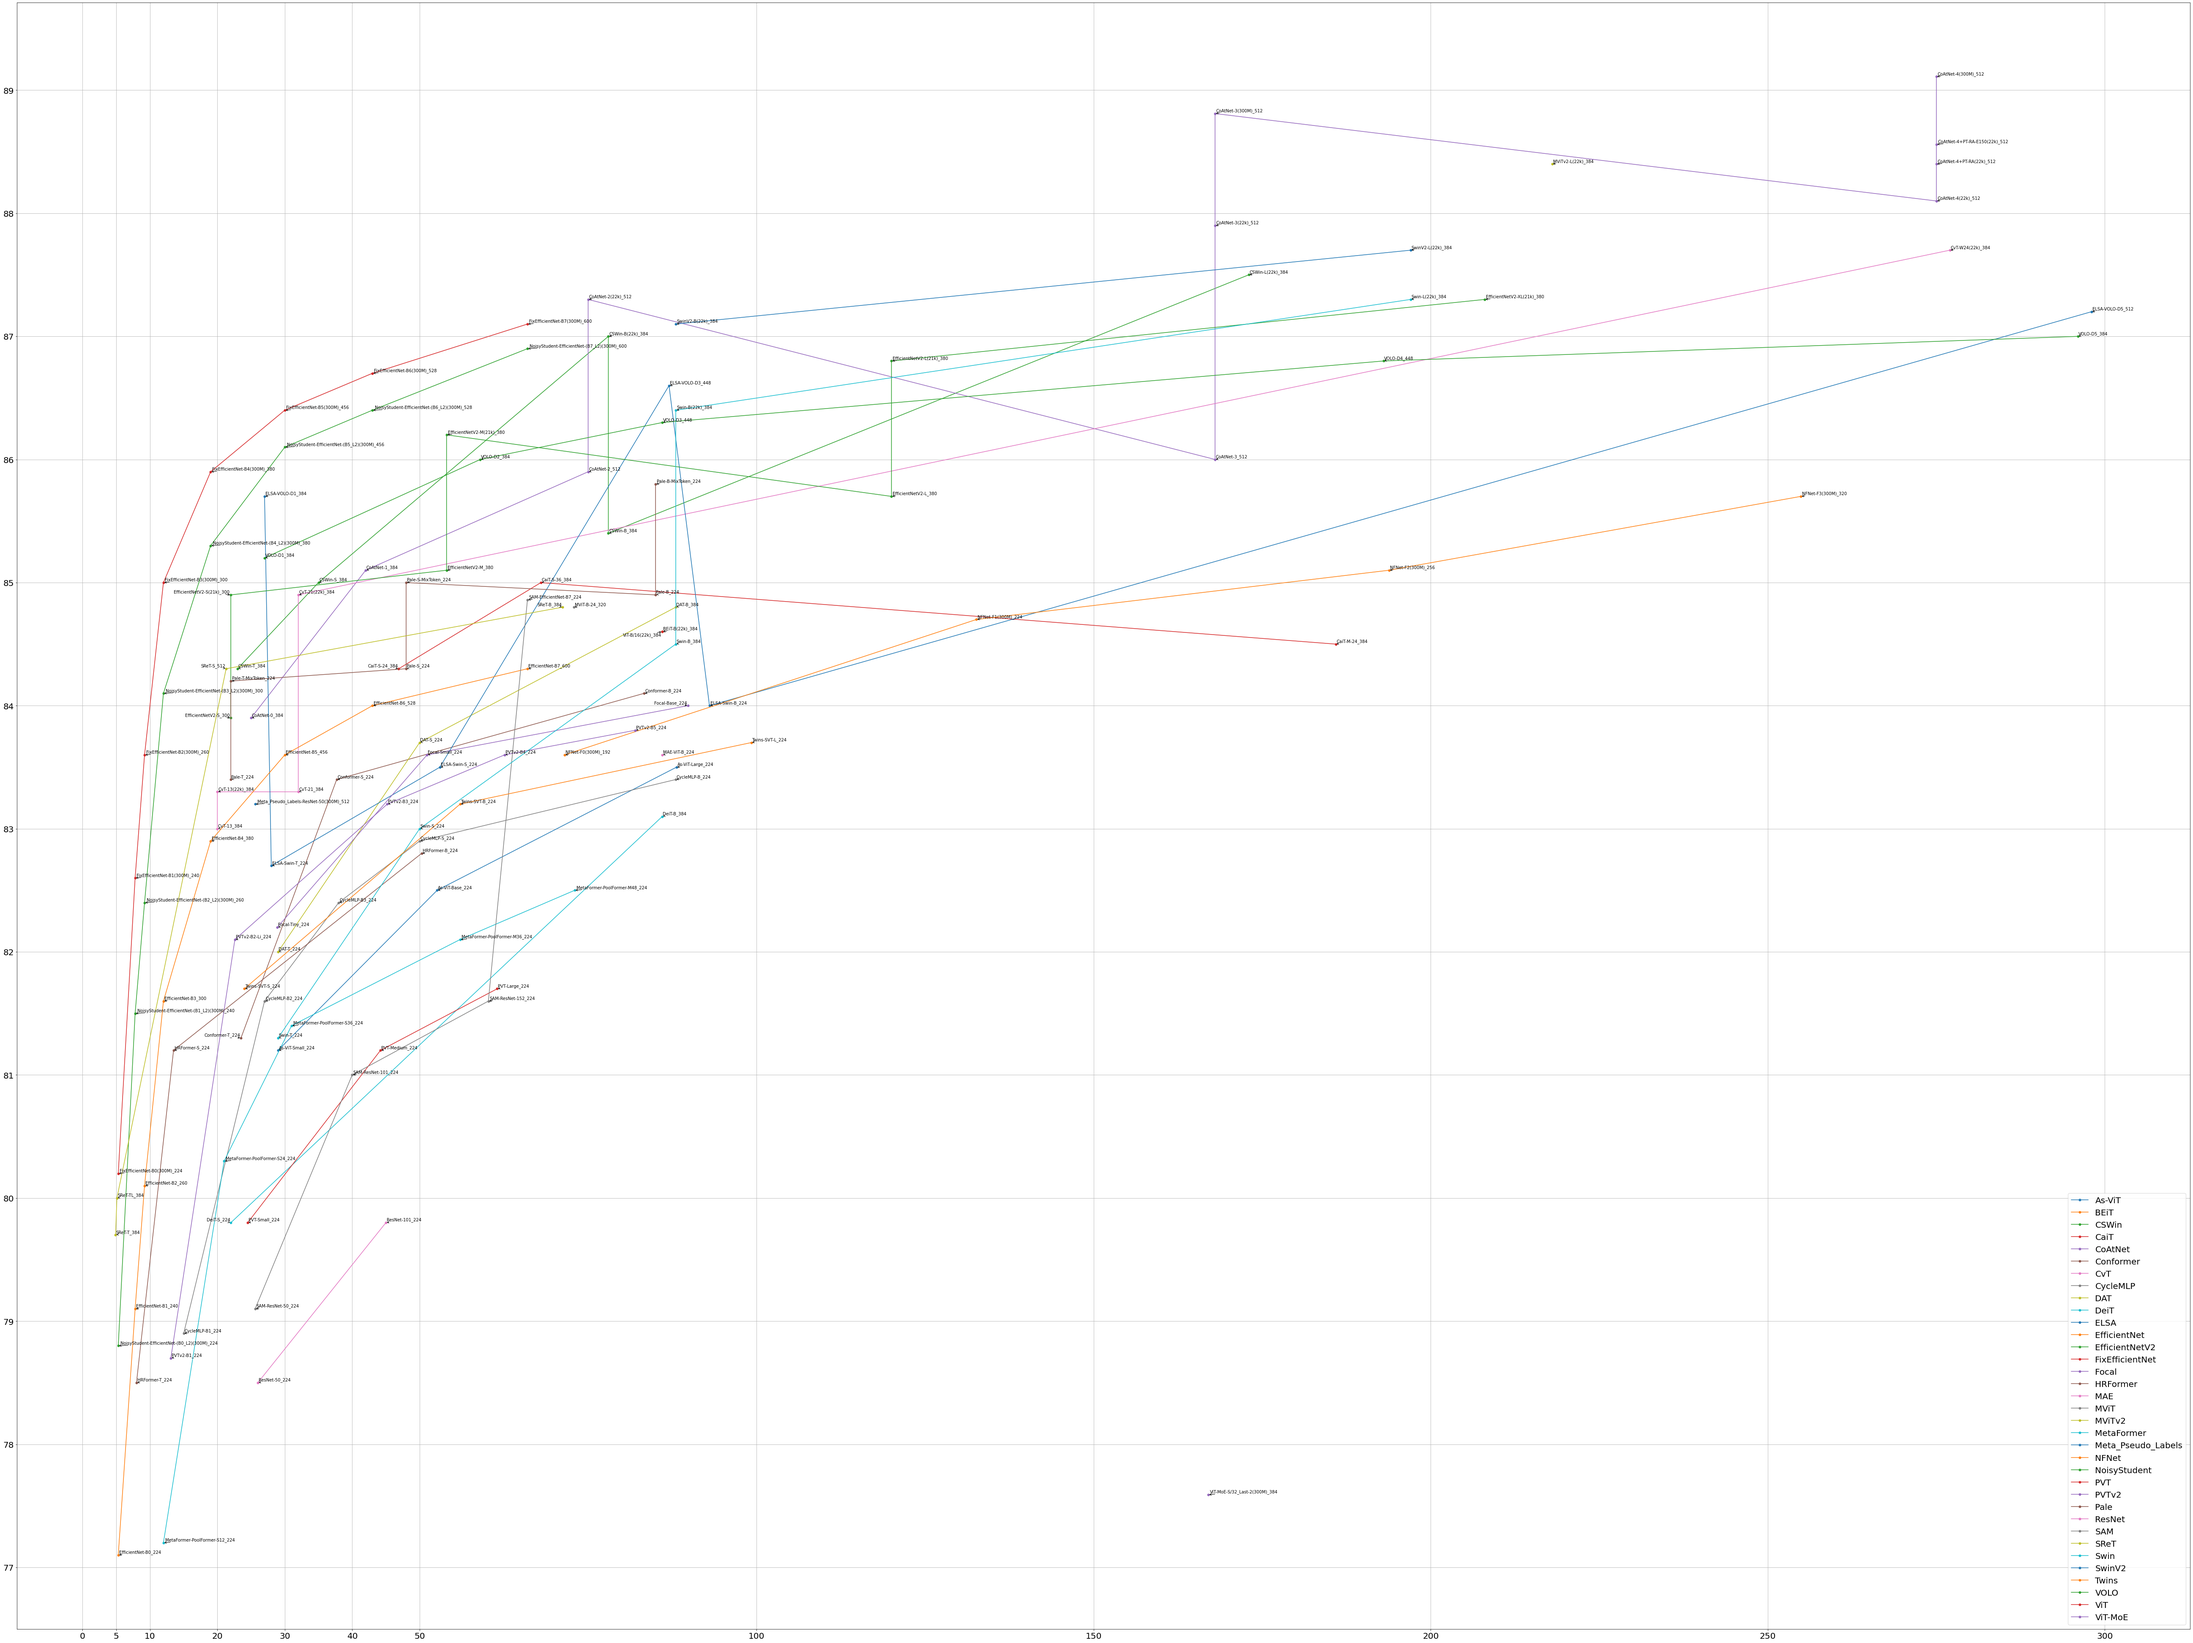
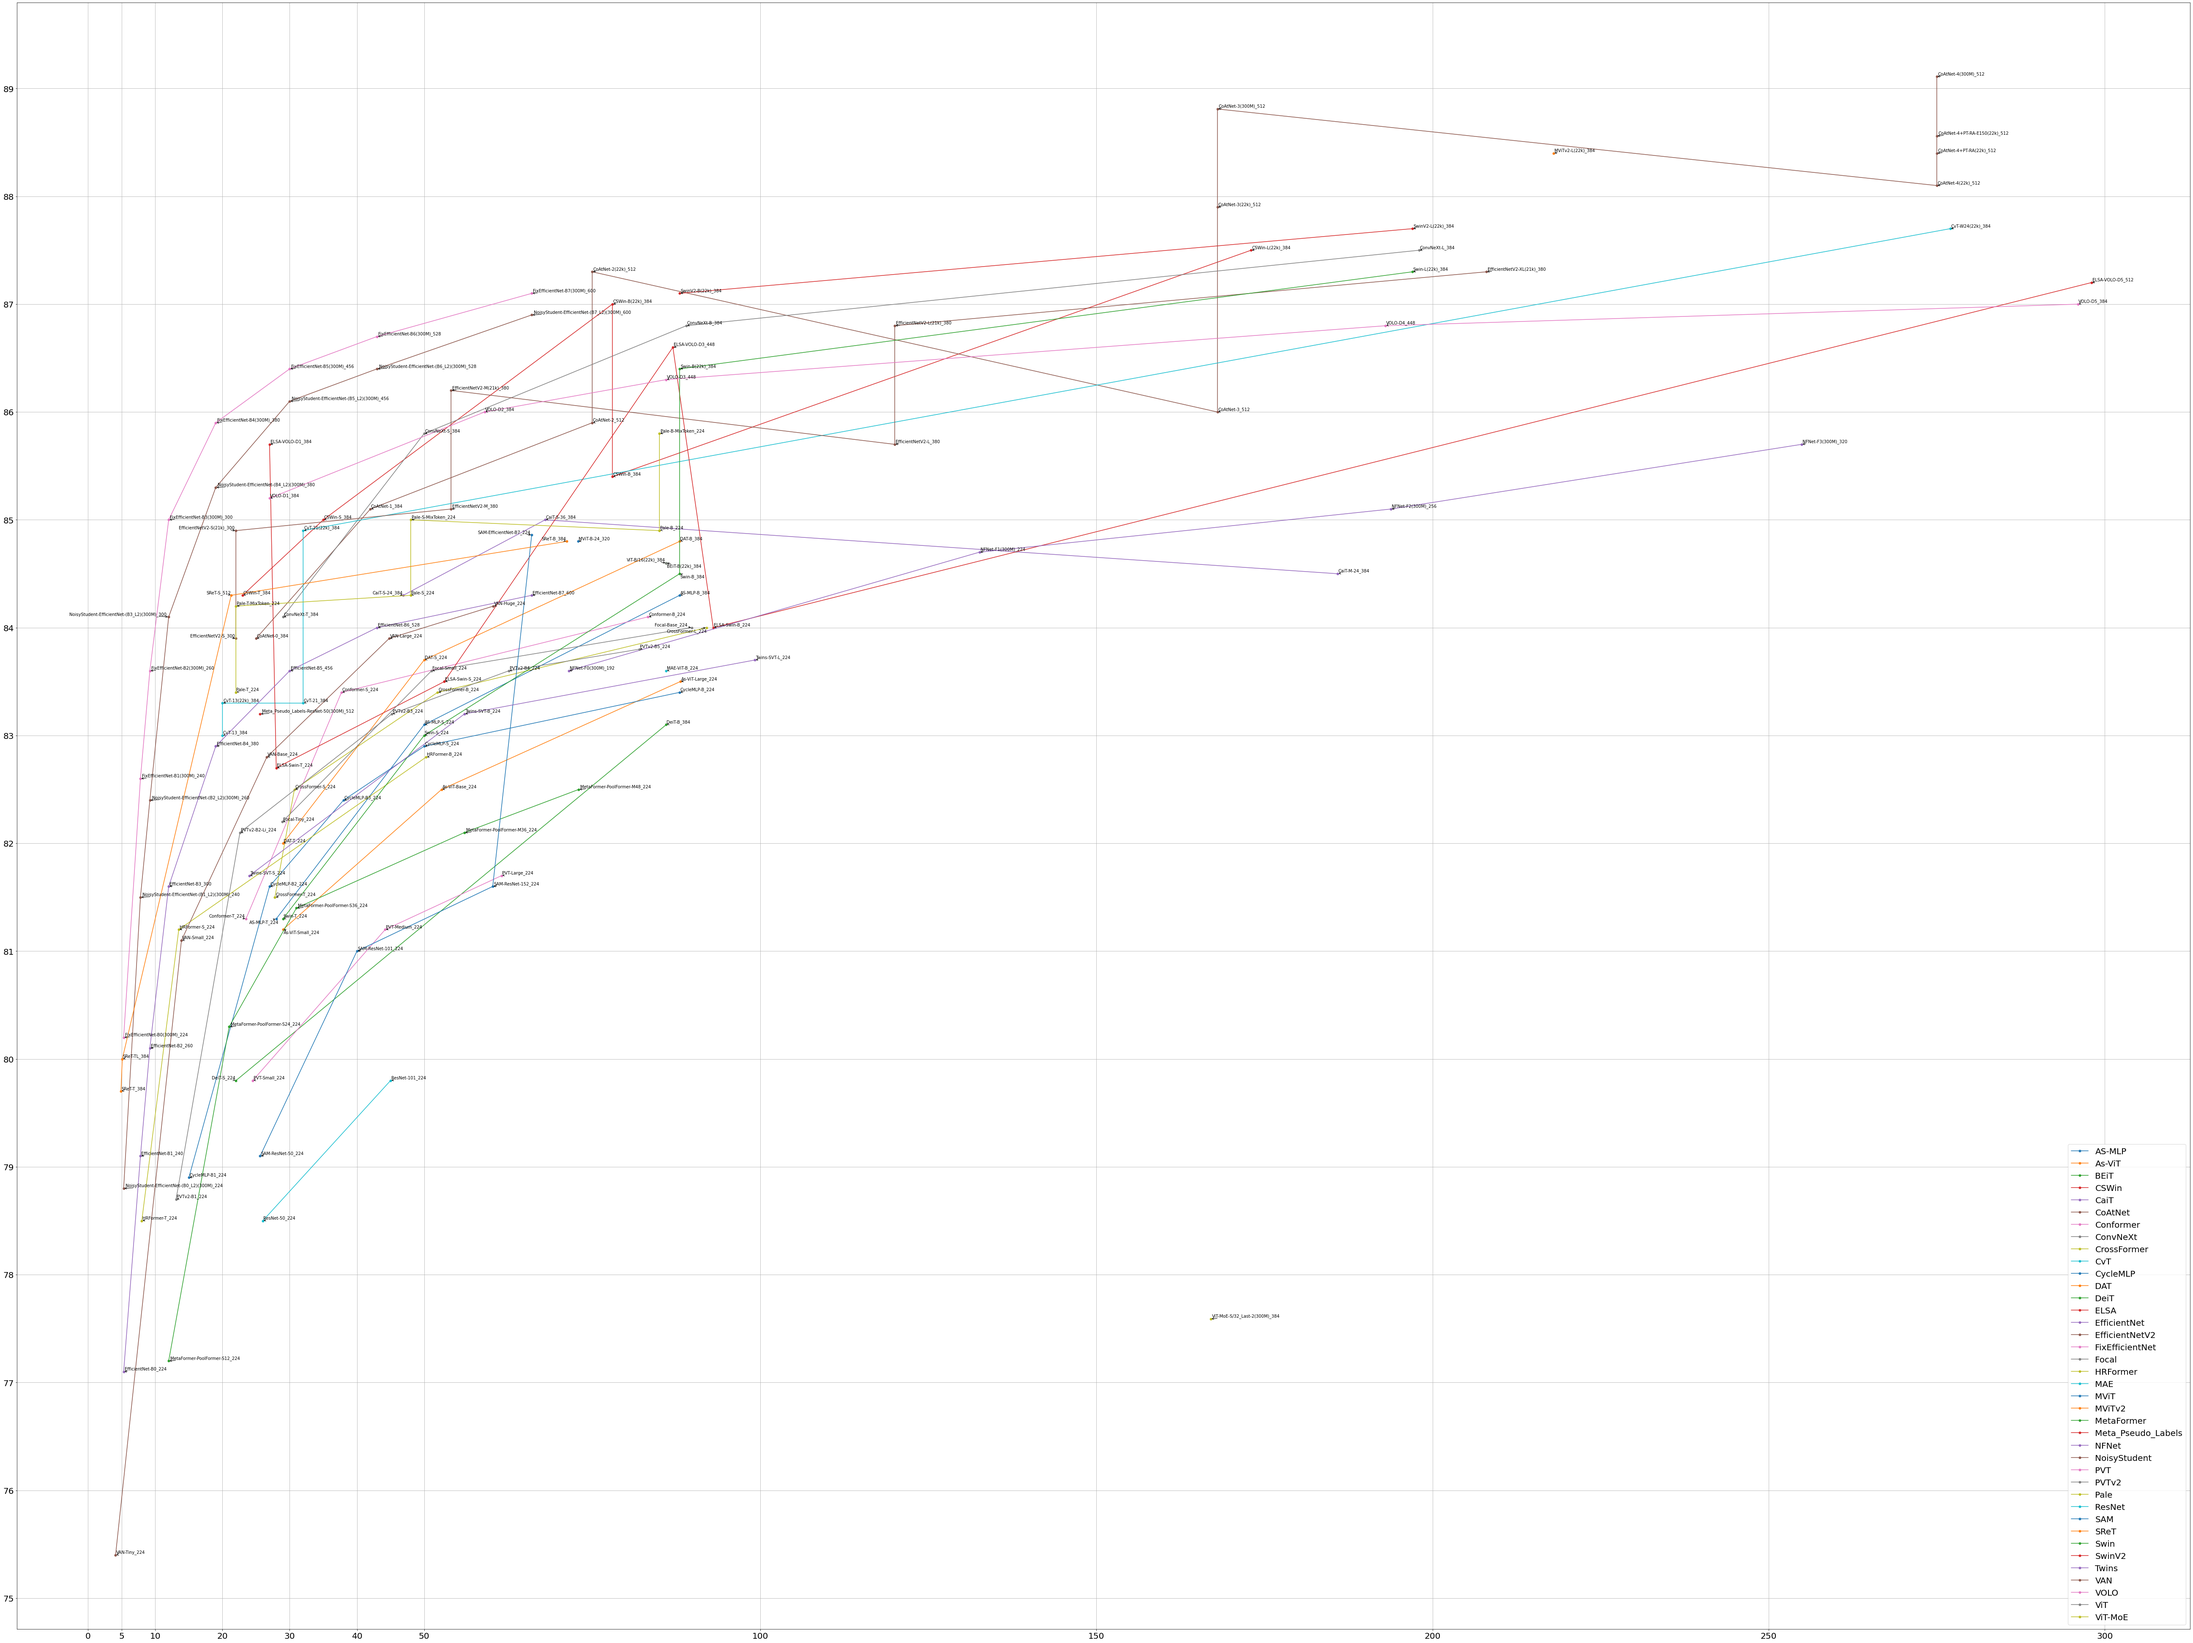
update

diff --git a/readme.md b/readme.md
@@ -128,4 +128,16 @@ Example
 - CycleMLP
   - CycleMLP: A MLP-like Architecture for Dense Prediction
   - [github](https://github.com/ShoufaChen/CycleMLP)
+- CrossFormer
+  - CrossFormer: A Versatile Vision Transformer Hinging on Cross-scale Attention
+  - [github](https://github.com/cheerss/CrossFormer)
+- AS-MLP
+  - AS-MLP: An Axial Shifted MLP Architecture for Vision
+  - [github](https://github.com/svip-lab/AS-MLP)
+- VAN
+  - Visual Attention Network
+  - [github](https://github.com/Visual-Attention-Network/VAN-Classification)
+- ConvNeXt
+  - A ConvNet for the 2020s
+  - [github](https://github.com/facebookresearch/ConvNeXt)
 - 
